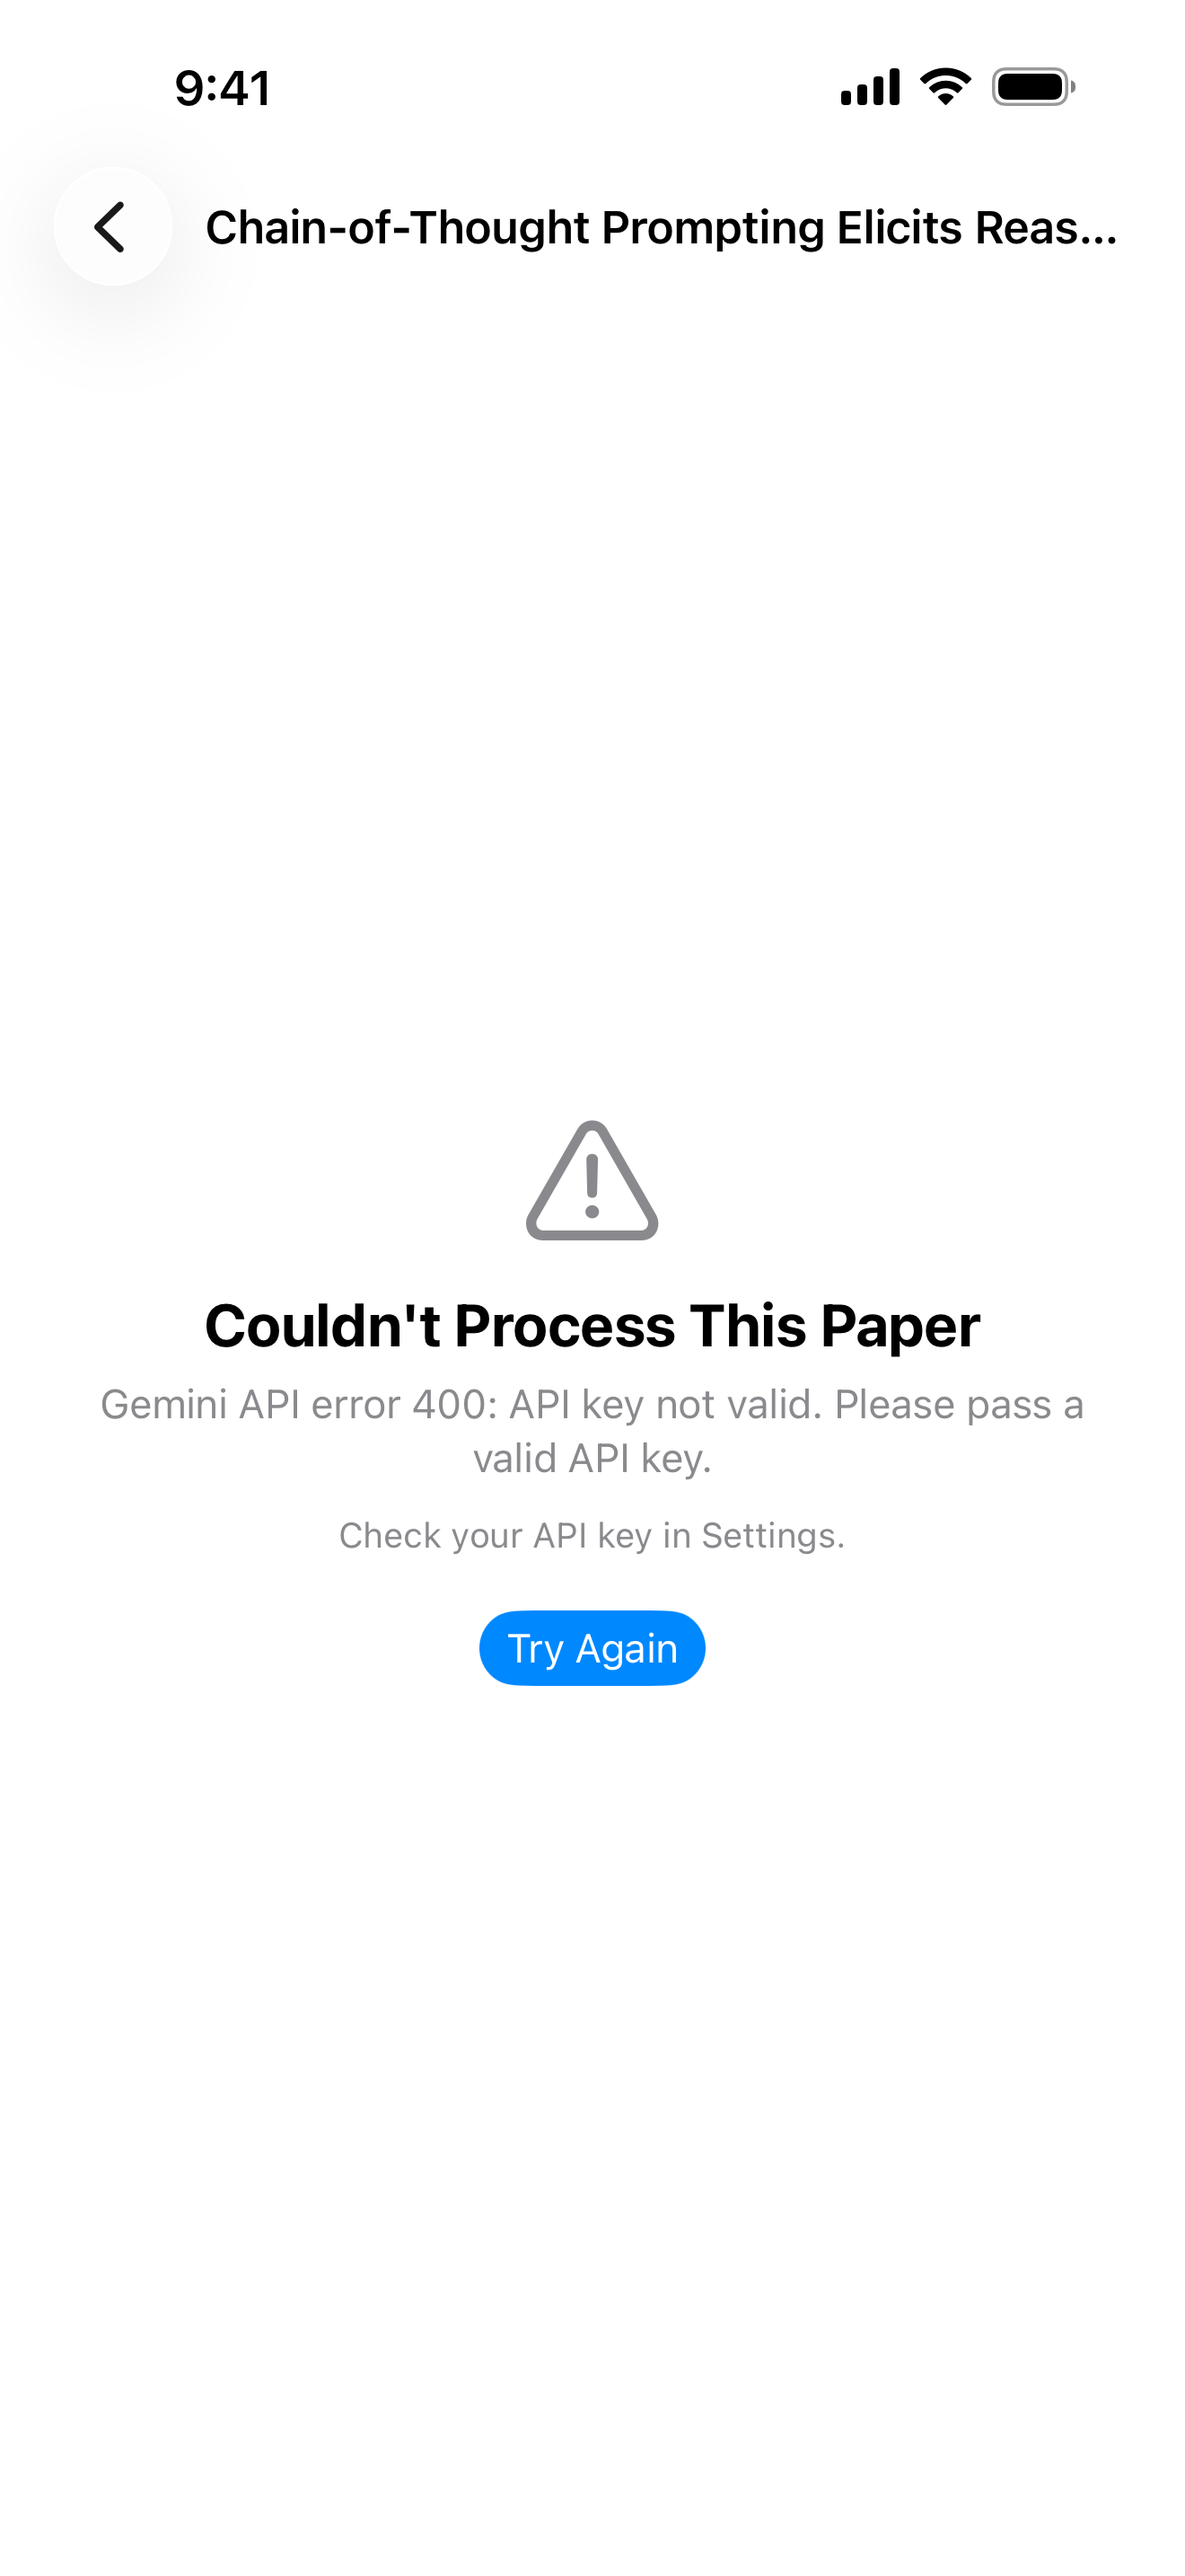
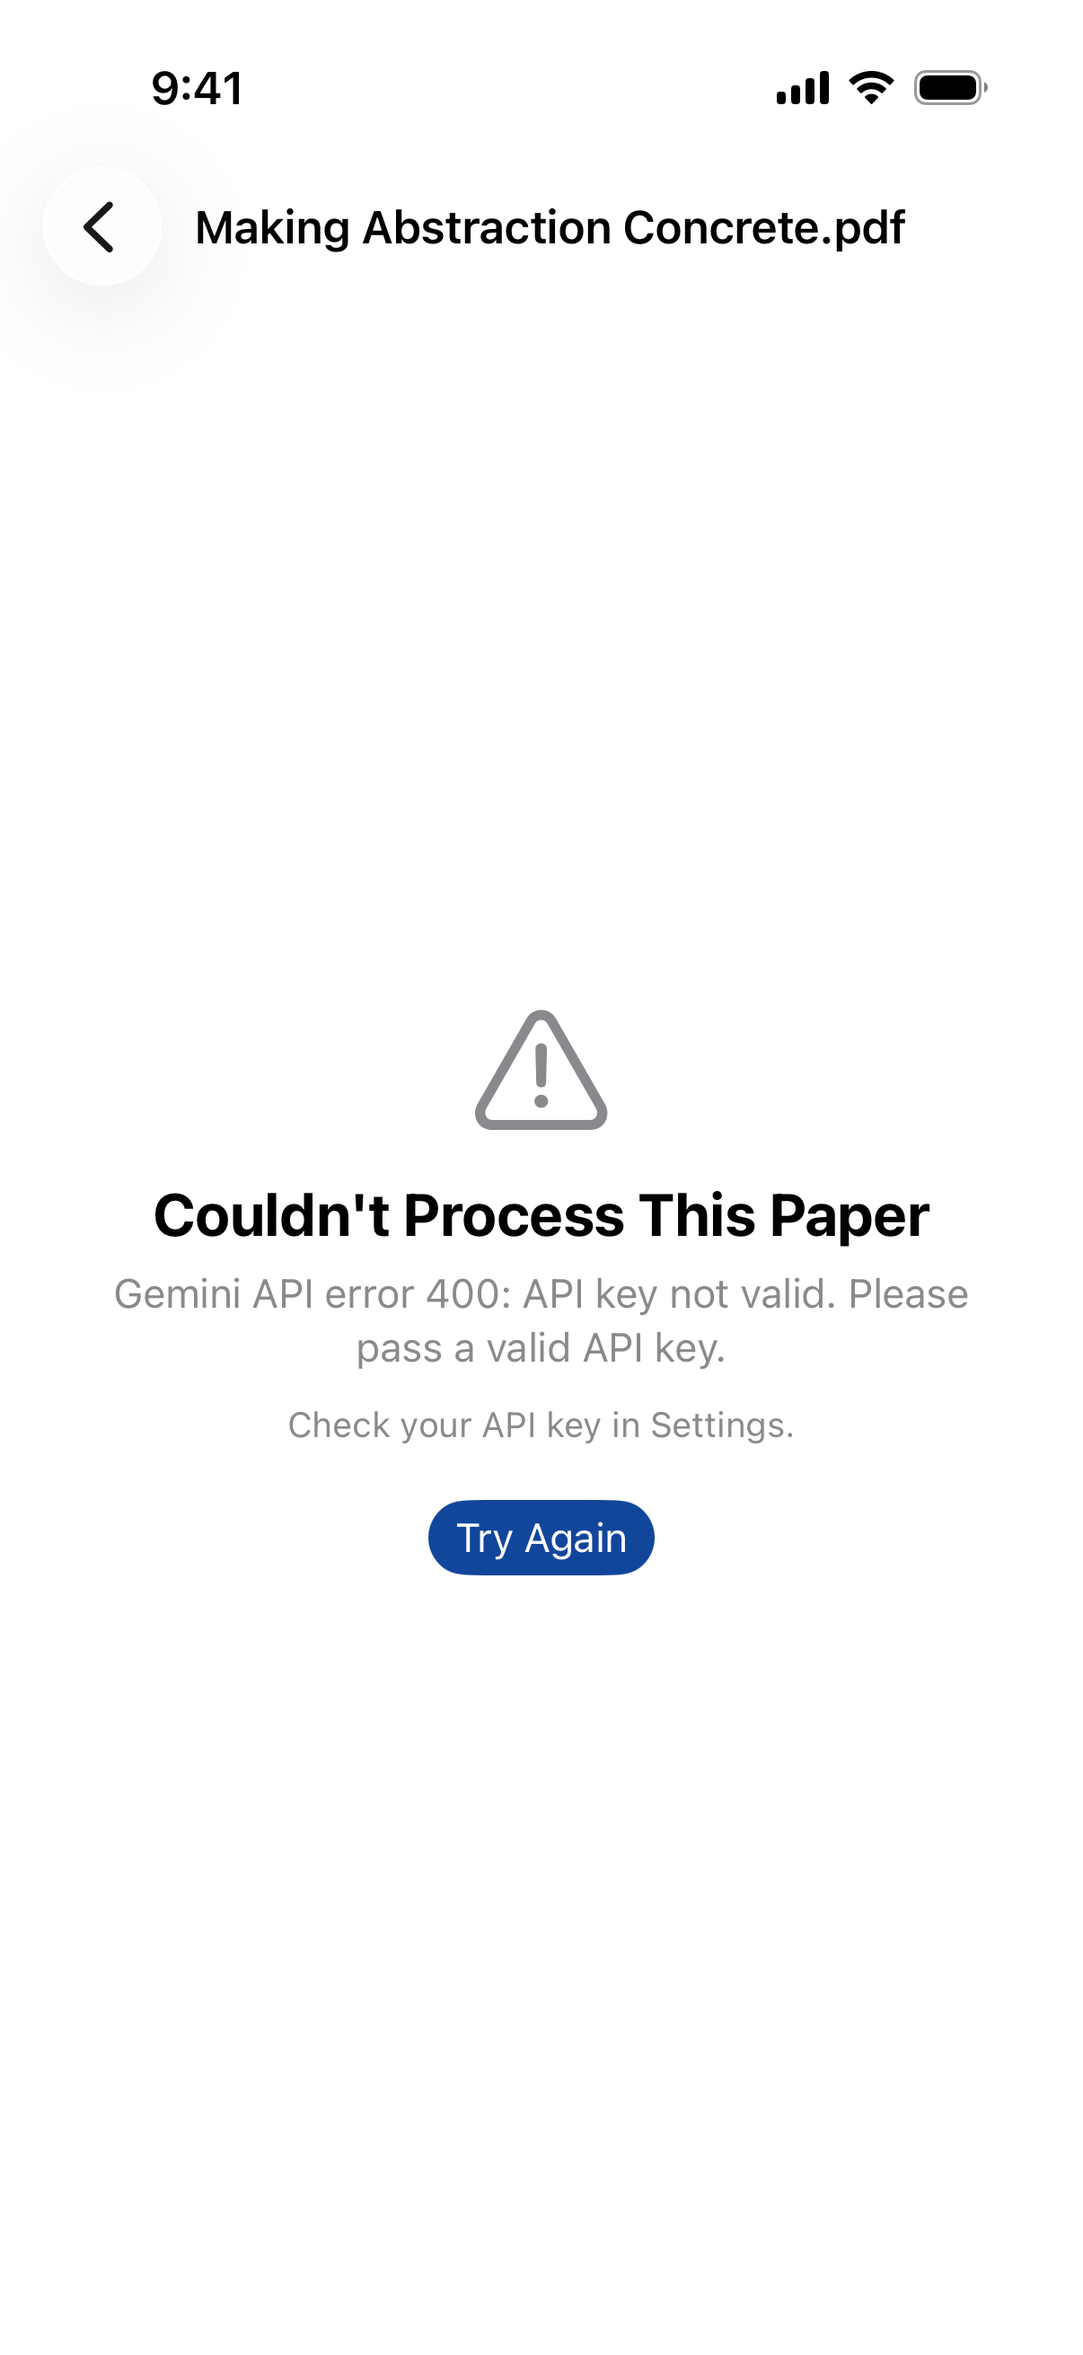
Show the Paper Reader failure and swap in the new Loot Check mark
Puts the failed row and the error screen under the error state line,
replaces the old Loot Check logo pair with the scan bracket versions,
and updates the two error screenshots to the latest exports.

Claude-Session: https://claude.ai/code/session_01STNC7Ur8pVa9td3oe3hhfT

Changed region(s): [[0.092, 0.4325, 0.9204, 0.6796], [0.1227, 0.0, 0.9204, 0.1236]]

diff --git a/src/data/case-studies.ts b/src/data/case-studies.ts
@@ -151,12 +151,12 @@ export const caseStudies: Record<string, CaseStudy> = {
             alt: "A shoe icon in a blue tag",
           },
           {
-            src: "/projects/loot-check-logo-blue-on-white.png",
-            alt: "Price tag icon in blue on white inside corner brackets",
+            src: "/projects/loot-check-logo-scan-white-on-blue.png",
+            alt: "The same tag and brackets reversed, white on a solid blue tile",
           },
           {
-            src: "/projects/loot-check-logo-white-on-blue.png",
-            alt: "The same price tag icon reversed out in white on blue",
+            src: "/projects/loot-check-logo-scan-blue-on-white.png",
+            alt: "A price tag with its hole punched out, set inside camera scan brackets, blue on white",
           },
         ],
       },
@@ -225,6 +225,19 @@ export const caseStudies: Record<string, CaseStudy> = {
       {
         type: "text",
         text: "When processing fails, the paper enters an error state and shows the exact error.",
+      },
+      {
+        type: "images",
+        items: [
+          {
+            src: "/projects/paper-reader-library-error.png",
+            alt: "My Papers with a paper that failed to process, its error in red beside a retry button, while the other papers keep their progress",
+          },
+          {
+            src: "/projects/paper-reader-error-state.png",
+            alt: "The same failure opened up, with the Gemini error it came back with, a line pointing to the API key in Settings, and a Try Again button",
+          },
+        ],
       },
       
       // (total samples / 24,000 = total seconds)
